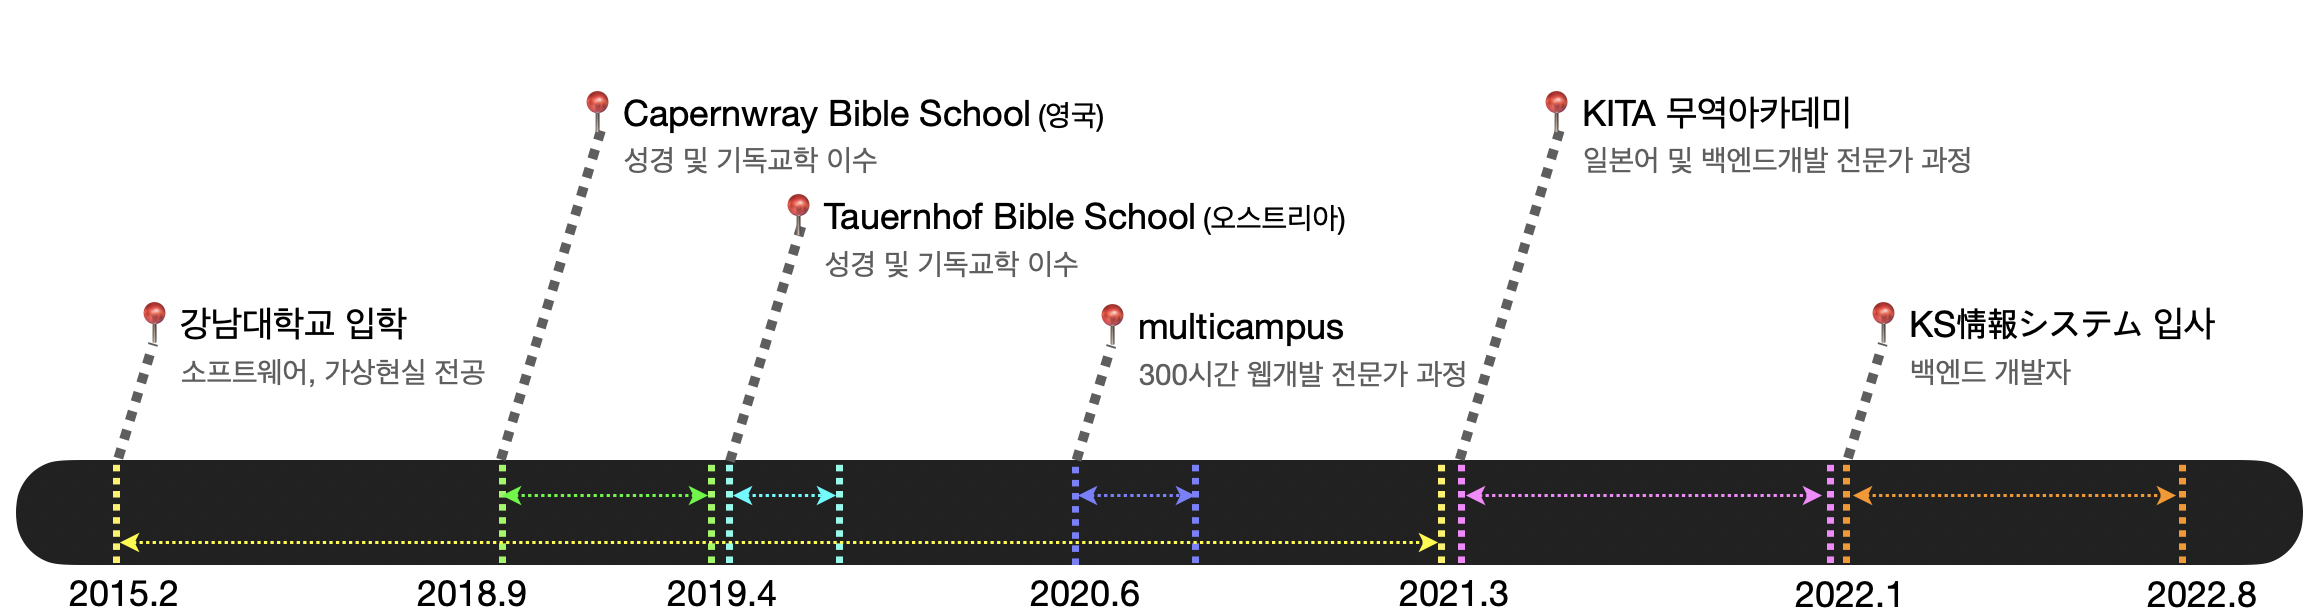
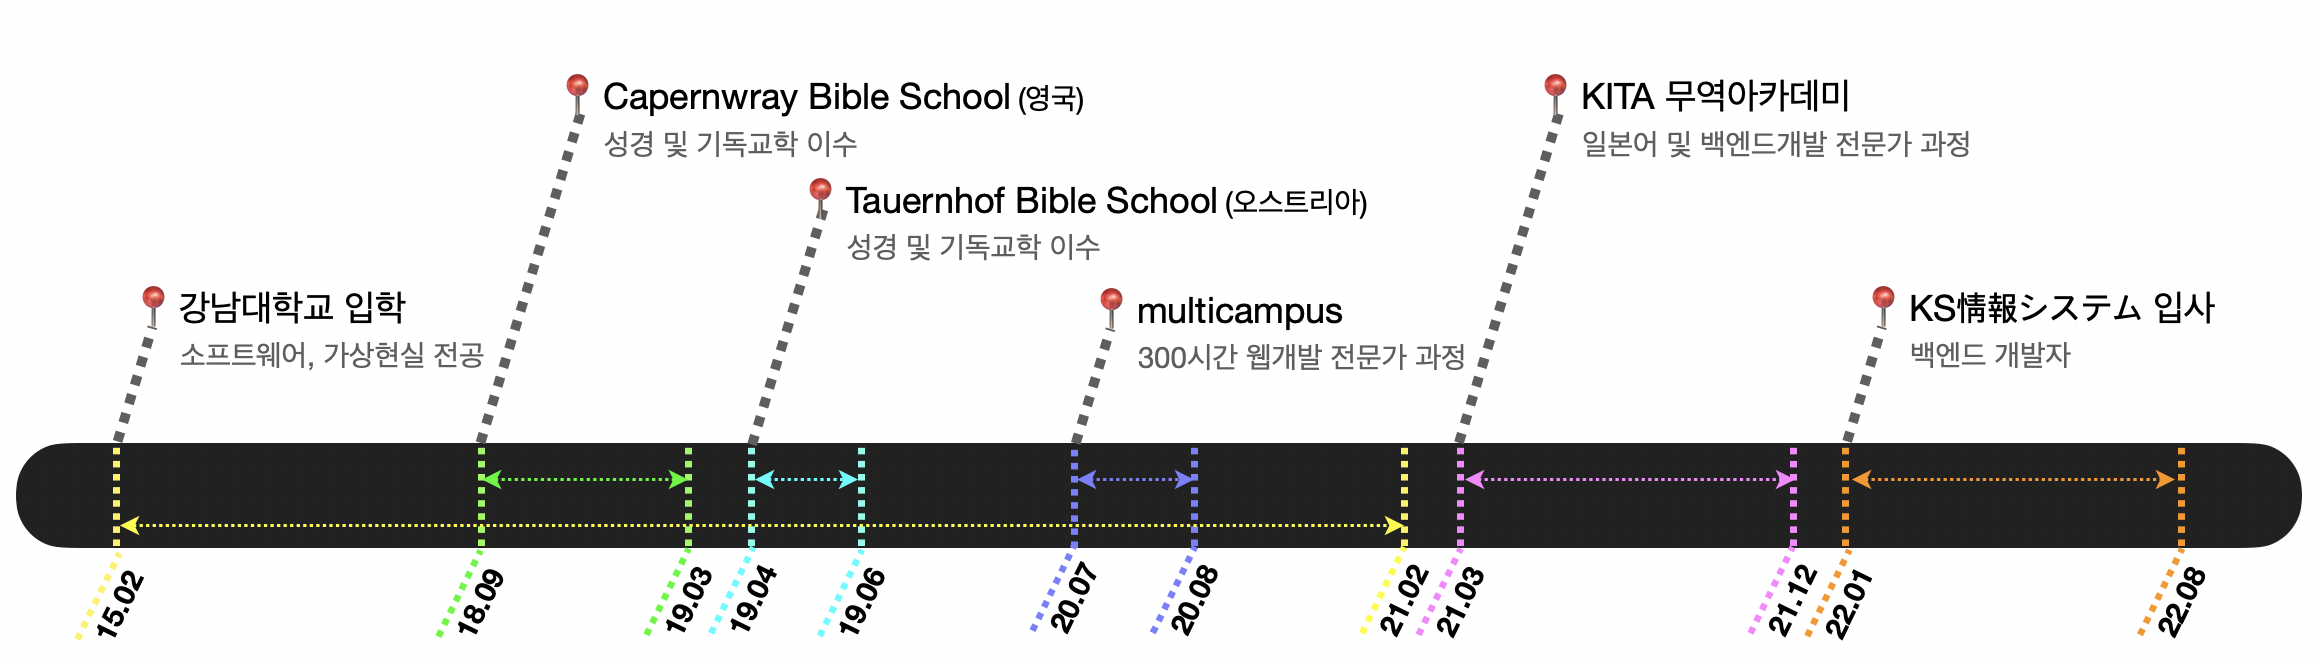
Portfolio contents change

Changed region(s): [[0.0, 0.1238, 0.9957, 0.9902], [0.6534, 0.1238, 0.8712, 0.4023], [0.809, 0.4332, 0.9646, 0.557]]

diff --git a/index.html b/index.html
@@ -49,7 +49,7 @@
                 <img src="imgs/profile_2.jpg" alt="Hakyung's profile photo" class="home__avater">
                 <!-- </span> -->
                 <h1 class="home__title">Hi, I'm Hakyung. </h1>
-                <h2 class="home__description">I'm a iOS developer. <br> Previously worked as a Backend developer.</>
+                <h2 class="home__description">I'm a iOS developer. <br> Previously worked as a Backend developer.</h2>
                 <!-- <h2 class="home__description">나를 나타낼 수 있는 최고의 문장 (강조하고픈 문장)</h2> -->
                 <!-- <button class="home__contact">Contact Me</button> -->
         </div>
@@ -60,15 +60,16 @@
         <h1>About me</h1>
         <p>
             I like working with people.<br>
-            To become a iOS Developer, I've been working on Frontend & Backend projects.<br>
-            Currently I'm working on a project "Bid & Auction Manager"!
+            To become a iOS Developer, I've been studying Swift & iOS development.<br>
+            <!--Currently I'm working on a project "Bid & Auction Manager"! -->
         </p>
 
         <!-- 가장 자신감 있는 3가지 -  -->
         <div class="about__majors">
             <div class="major">
                 <div class="major__icon">
-                    <i class="fab fa-html5"></i>
+                    <!-- <i class="fab fa-html5"></i> -->
+                    <i class="fab fa-swift"></i>
                 </div>
                 <h2 class="major__title">Front-end</h2>
                 <div class="major__description">
@@ -93,13 +94,27 @@
                 <h2 class="major__title">Tools</h2>
                 <div class="major__description">
                     <!-- 정확하게 어떤 것을 의미하는지 자세히 적어보기 -->
-                    Xcode, STS4, Docker, Git, GitHub 
+                    Xcode, Spring Framework, Docker, Git, GitHub 
                 </div>
             </div>
         </div>
 
         <!-- 일 했거나, 공부했던 경력 -->
         <div class="about__jobs_schools">
+            <div class="job">
+                <img src="imgs/jobs_schools/ksinformation.png" alt="evo" class="job__logo jlogo2">
+                <div class="job_discription">
+                    <p class="job__name">Worked at ＫＳ情報システム株式会社 (KS Information System) as a Backend developer</p>
+                    <div class="job__period">2022 Jan - 2022 Aug</div>
+                </div>
+            </div>
+            <div class="job">
+                <img src="imgs/jobs_schools/kita_black.png" alt="scit" class="job__logo jlogo2">
+                <div class="job_discription">
+                    <p class="job__name">Studied Business Japanese, Backend Web Developing Skills at KITA Academy (한국무역협회)</p>
+                    <div class="job__period">2021 Mar - 2021 Dec</div>
+                </div>
+            </div>
             <div class="job">
                 <img src="imgs/jobs_schools/kangnam.png" alt="kangnam" class="job__logo jlogo1">
                 <div class="job_discription">
@@ -128,25 +143,11 @@
                     <div class="job__period">2020 Jun - 2020 Aug</div>
                 </div>
             </div>
-            <div class="job">
-                <img src="imgs/jobs_schools/kita_black.png" alt="scit" class="job__logo jlogo2">
-                <div class="job_discription">
-                    <p class="job__name">Studied Japanese, Backend Web Developing Skills at KITA (Korea International Trade Association, 한국무역협회)</p>
-                    <div class="job__period">2021 Mar - 2021 Dec</div>
-                </div>
-            </div>
-            <div class="job">
-                <img src="imgs/jobs_schools/ksinformation.png" alt="evo" class="job__logo jlogo2">
-                <div class="job_discription">
-                    <p class="job__name">Worked at ＫＳ情報システム (KS Information System) as a System developer</p>
-                    <div class="job__period">2022 Jan - 2022 Aug</div>
-                </div>
-            </div>
         </div>
     </section>
 
     <!-- Work -->
-    <section id="work" class="section timeline">
+    <section id="timeline" class="section timeline">
         <img src="./imgs/timeline.png" alt="" class="section_img timeline">
     </section>
 
@@ -181,11 +182,11 @@
                     <div class="skill">
                         <div class="skill__description">
                             <span>SWIFT</span>
-                            <span>70%</span>
+                            <span>40%</span>
                         </div>
     
                         <div class="skill__bar">
-                            <div class="skill__value" style="width: 80%;">
+                            <div class="skill__value" style="width: 40%;">
                             </div>
                         </div>
                     </div>
@@ -246,7 +247,7 @@
         </div>
     </section>
 
-    <section id="testimonials" class="section">
+    <section id="work" class="section">
         <div class="section_container">
             <h1>Work</h1>
         <h3>Projects</h3>
@@ -549,13 +550,13 @@
 
             <div class="slidedown__items">
                 <div class="slidedown__item item5">
-                    <img src="imgs/projects/project_shareseoul.png" alt="work5" class="slidedown__img work__img5">
+                    <img src="imgs/projects/project_sobani.png" alt="work5" class="slidedown__img work__img5">
                     <div class="slidedown__description work__description5">
                         <p class="slidedown__description__title">
-                            Share Seoul ー Frontend Development
+                            Sobani ソバ二 ー Backend Development
                         </p>
                         <p class="slidedown__description__content">
-                            Developing and maintenancing Analysis System
+                            Java E-Commerce System
                         </p>
                     </div>
                 </div>    

diff --git a/style.css b/style.css
@@ -12,6 +12,7 @@
   --color-grey: #616161;
   --color-light-grey: #7c7979;
   --color-double-lilght-grey: #C5C5C5;
+  --color-beautiful-grey: #8e8d8d;
   --color-blue: #73aace;
   --color-yellow: #fbf6db;
   --color-orange: #feb546;
@@ -242,6 +243,10 @@ p {
   width: 985px;
 }
 
+#about p {
+  line-height: 160%;
+}
+
 .about__majors {
   display: flex;
   justify-content: space-between;
@@ -253,9 +258,11 @@ p {
   height: 170px;
   /* i tag is also considered as a text */
   font-size: 70px;
-  color: var(--color-blue);
+  /* color: var(--color-blue); */
+  color: var(--color-light-grey);
+  /* color: var(--color-dark-grey); */
   line-height: 170px;
-  border: 1px solid var(--color-blue);
+  border: 1px solid var(--color-beautiful-grey);
   border-radius: 50%;
   margin-bottom: 16px;
   margin: auto;
@@ -267,7 +274,8 @@ p {
 }
 
 .major__icon:hover i {
-  color: pink;
+  /* color: pink; */
+  color: var( --color-bg-orange);
   transform: rotate(-30deg) scale(1.1);
 }
 
@@ -316,6 +324,10 @@ p {
 /* Skills */
 #skills {
   background-color: var(--color-yellow);
+}
+
+#skills p {
+  line-height: 160%;
 }
 
 .skill {
@@ -493,8 +505,8 @@ p {
   background-color: var(--color-dark-white);
 }
 
-/* Testimonials */
-#testimonials {
+/* work */
+#work {
   background-color: var(--color-light-white);
 }
 
@@ -846,6 +858,7 @@ img.slidedown__img.work__img5,
 img.slidedown__img.work__img6 {
   margin: 20px 0 3px 0;
 }
+
 
 .slidedown__description {
   padding: 10px 25px 15px 25px;
